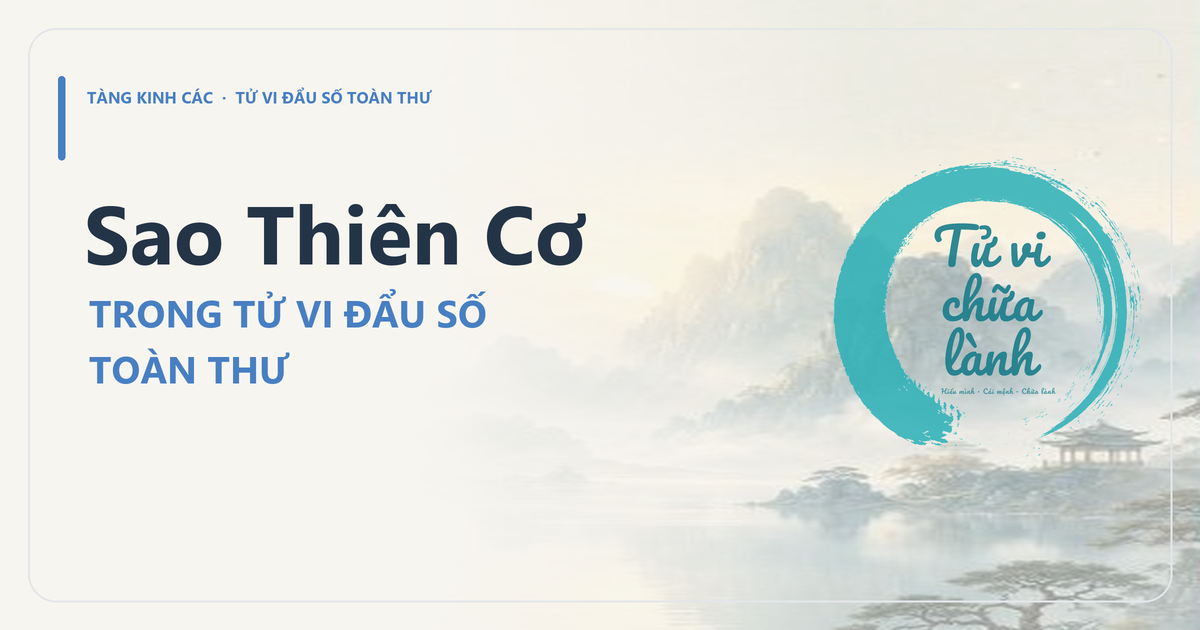
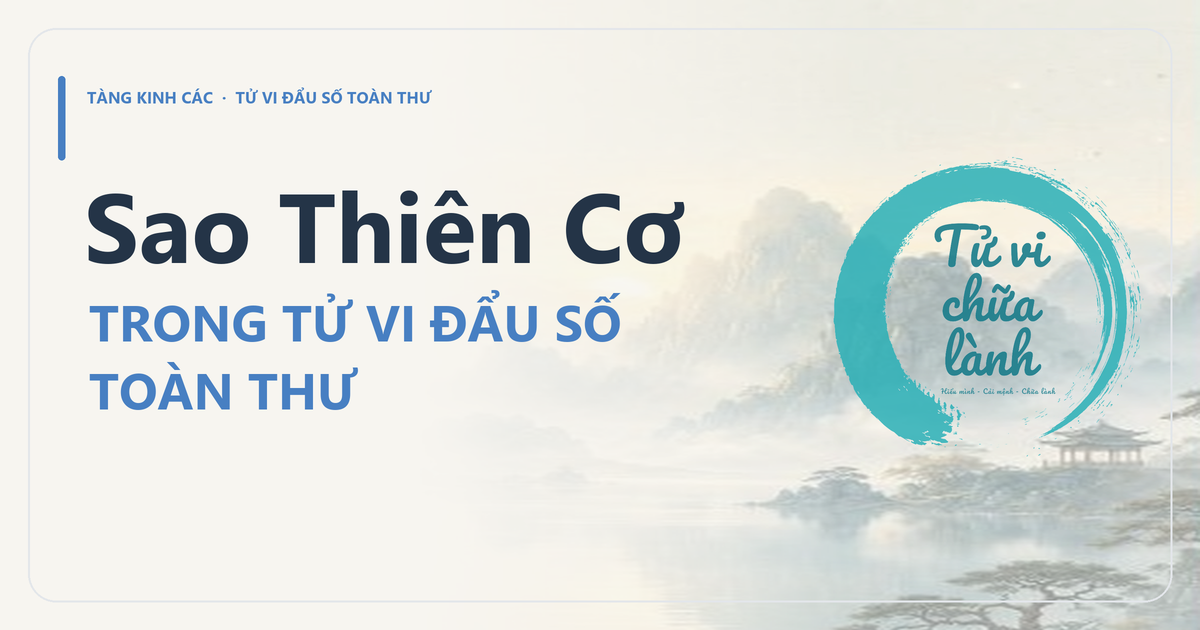
Make Toan Thu share image text more prominent

Changed region(s): [[0.0617, 0.4524, 0.5242, 0.6635], [0.0617, 0.3016, 0.5858, 0.4222]]

diff --git a/scripts/generate_toan_thu_share_images.py b/scripts/generate_toan_thu_share_images.py
@@ -94,15 +94,15 @@ def make_image(title: str, accent_hex: str, hub: bool = False) -> Image.Image:
     draw.text((87 * SCALE, 86 * SCALE), "TÀNG KINH CÁC  ·  TỬ VI ĐẨU SỐ TOÀN THƯ", font=f(16, True), fill=(*accent, 255))
 
     if hub:
-        draw.text((84 * SCALE, 185 * SCALE), "Tử Vi Đẩu Số", font=f(74, True), fill=(*ink, 255))
-        draw.text((84 * SCALE, 272 * SCALE), "Toàn Thư", font=f(74, True), fill=(*ink, 255))
+        draw.text((84 * SCALE, 167 * SCALE), "Tử Vi Đẩu Số", font=f(90, True), fill=(*ink, 255))
+        draw.text((84 * SCALE, 270 * SCALE), "Toàn Thư", font=f(90, True), fill=(*ink, 255))
         draw.rounded_rectangle((87 * SCALE, 370 * SCALE, 466 * SCALE, 413 * SCALE), radius=21 * SCALE, fill=(*tint((30, 154, 163), paper, .09), 255), outline=(*tint((30, 154, 163), paper, .34), 255), width=1 * SCALE)
         draw.text((107 * SCALE, 379 * SCALE), "TRA CỨU 14 CHÍNH TINH", font=f(18, True), fill=(30, 121, 129, 255))
     else:
         heading = "Sao " + title
-        draw.text((84 * SCALE, 176 * SCALE), heading, font=fitted_font(heading, 82, 680), fill=(*ink, 255))
-        draw.text((89 * SCALE, 286 * SCALE), "TRONG TỬ VI ĐẨU SỐ", font=f(38, True), fill=(*accent, 255))
-        draw.text((89 * SCALE, 342 * SCALE), "TOÀN THƯ", font=f(38, True), fill=(*accent, 255))
+        draw.text((84 * SCALE, 157 * SCALE), heading, font=fitted_font(heading, 98, 700), fill=(*ink, 255))
+        draw.text((89 * SCALE, 286 * SCALE), "TRONG TỬ VI ĐẨU SỐ", font=f(51, True), fill=(*accent, 255))
+        draw.text((89 * SCALE, 354 * SCALE), "TOÀN THƯ", font=f(51, True), fill=(*accent, 255))
 
     return base.convert("RGB").resize((W, H), Image.Resampling.LANCZOS)
 
